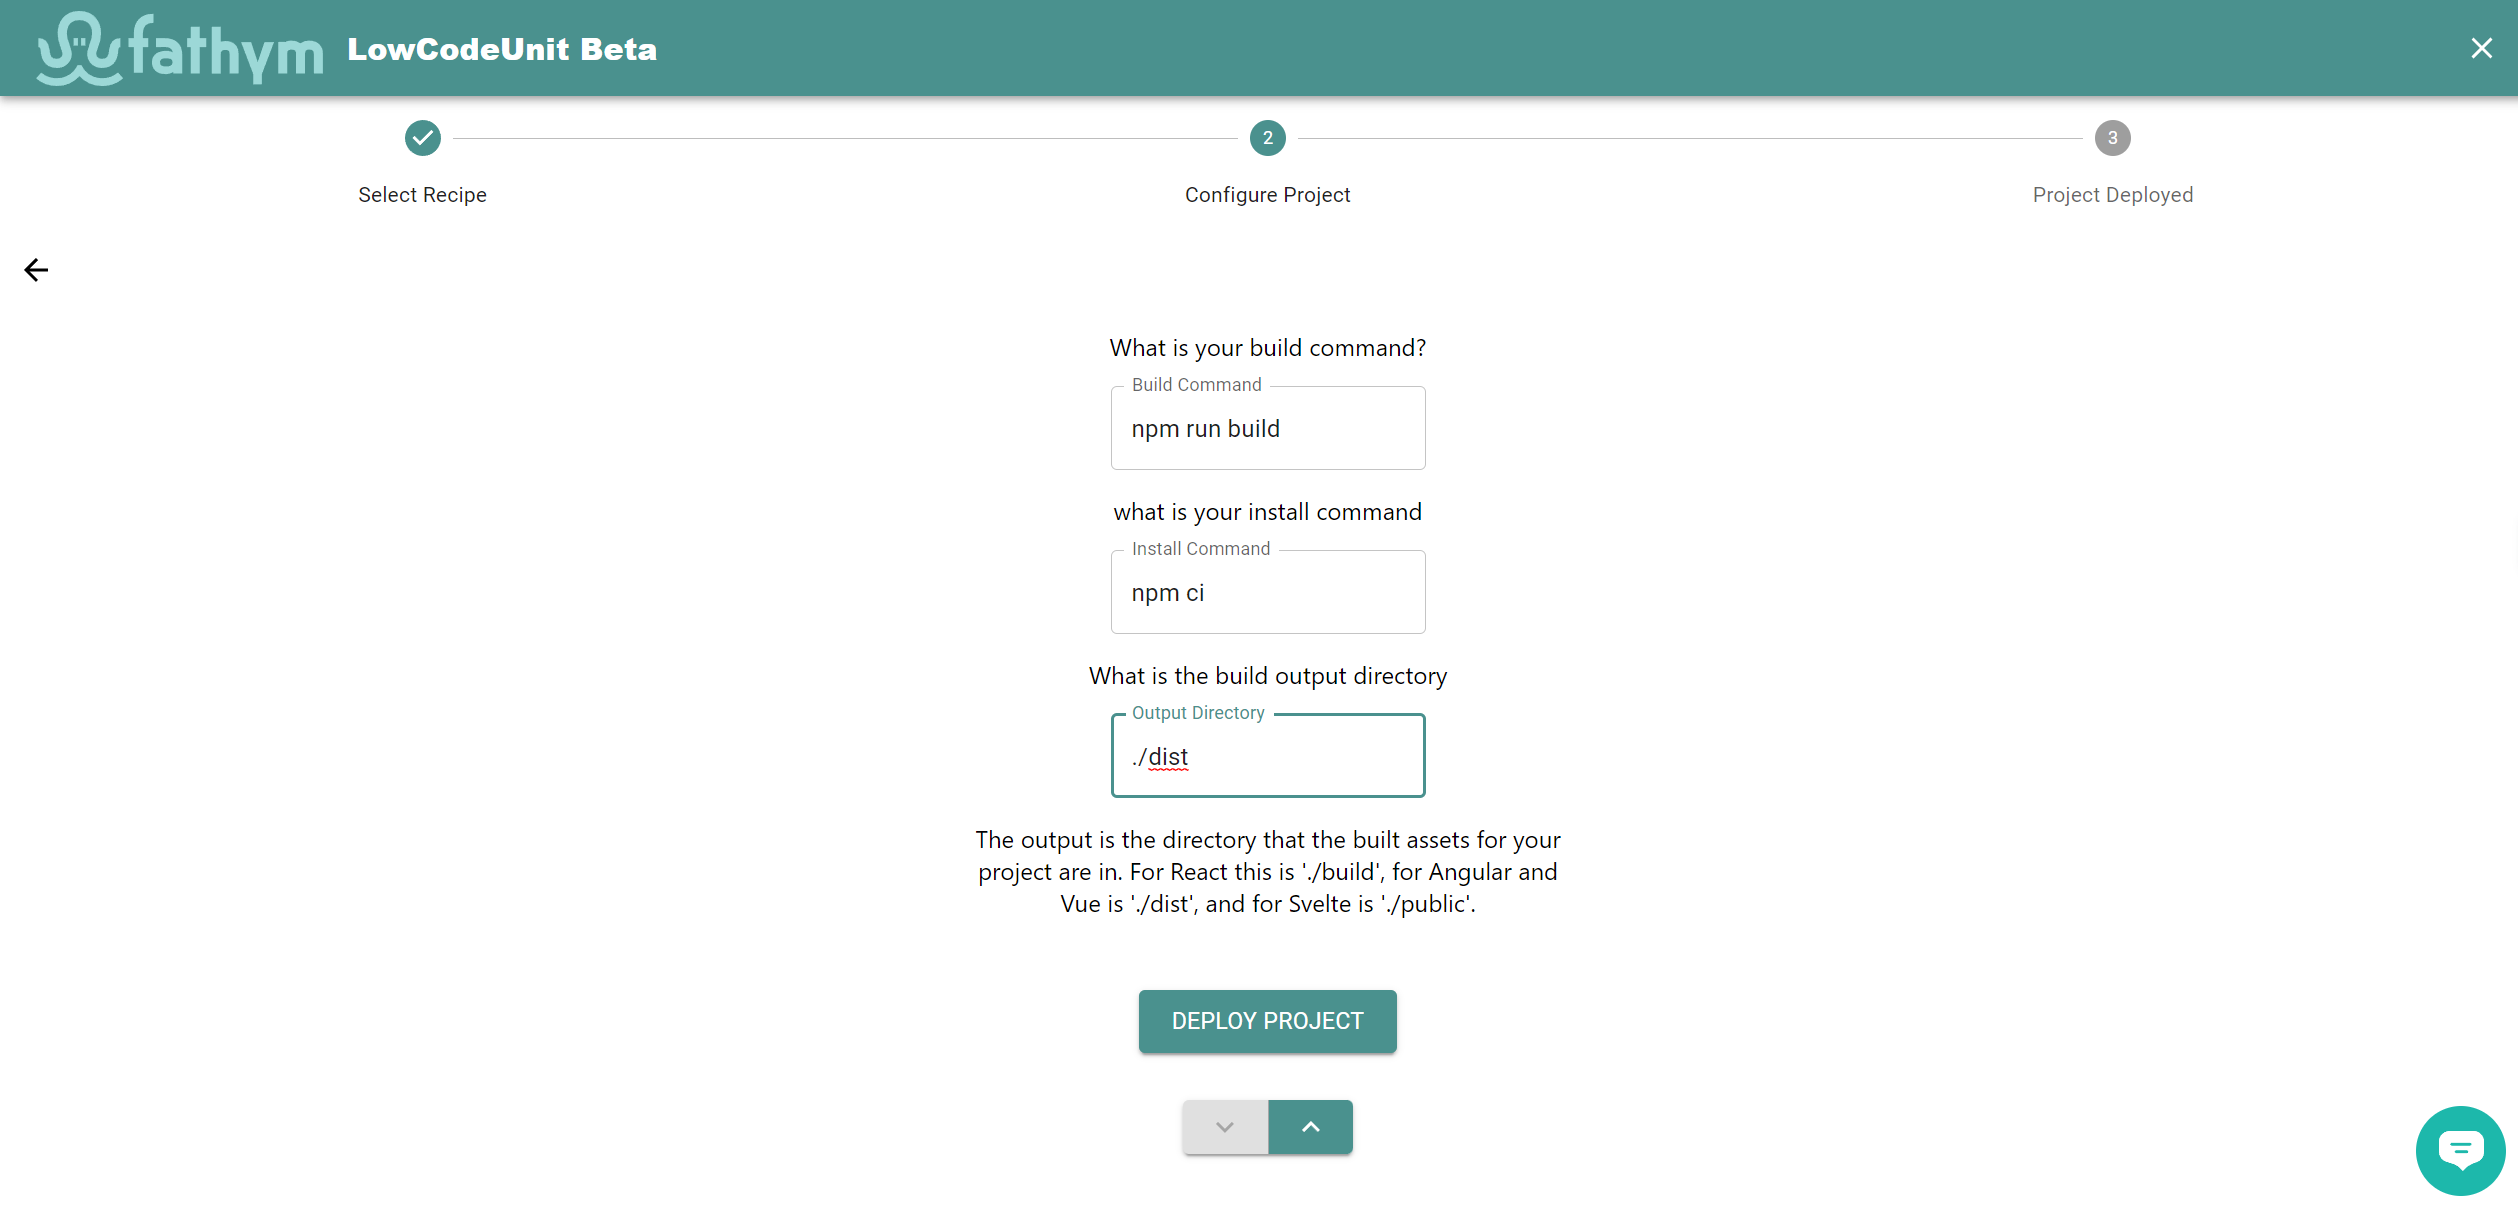
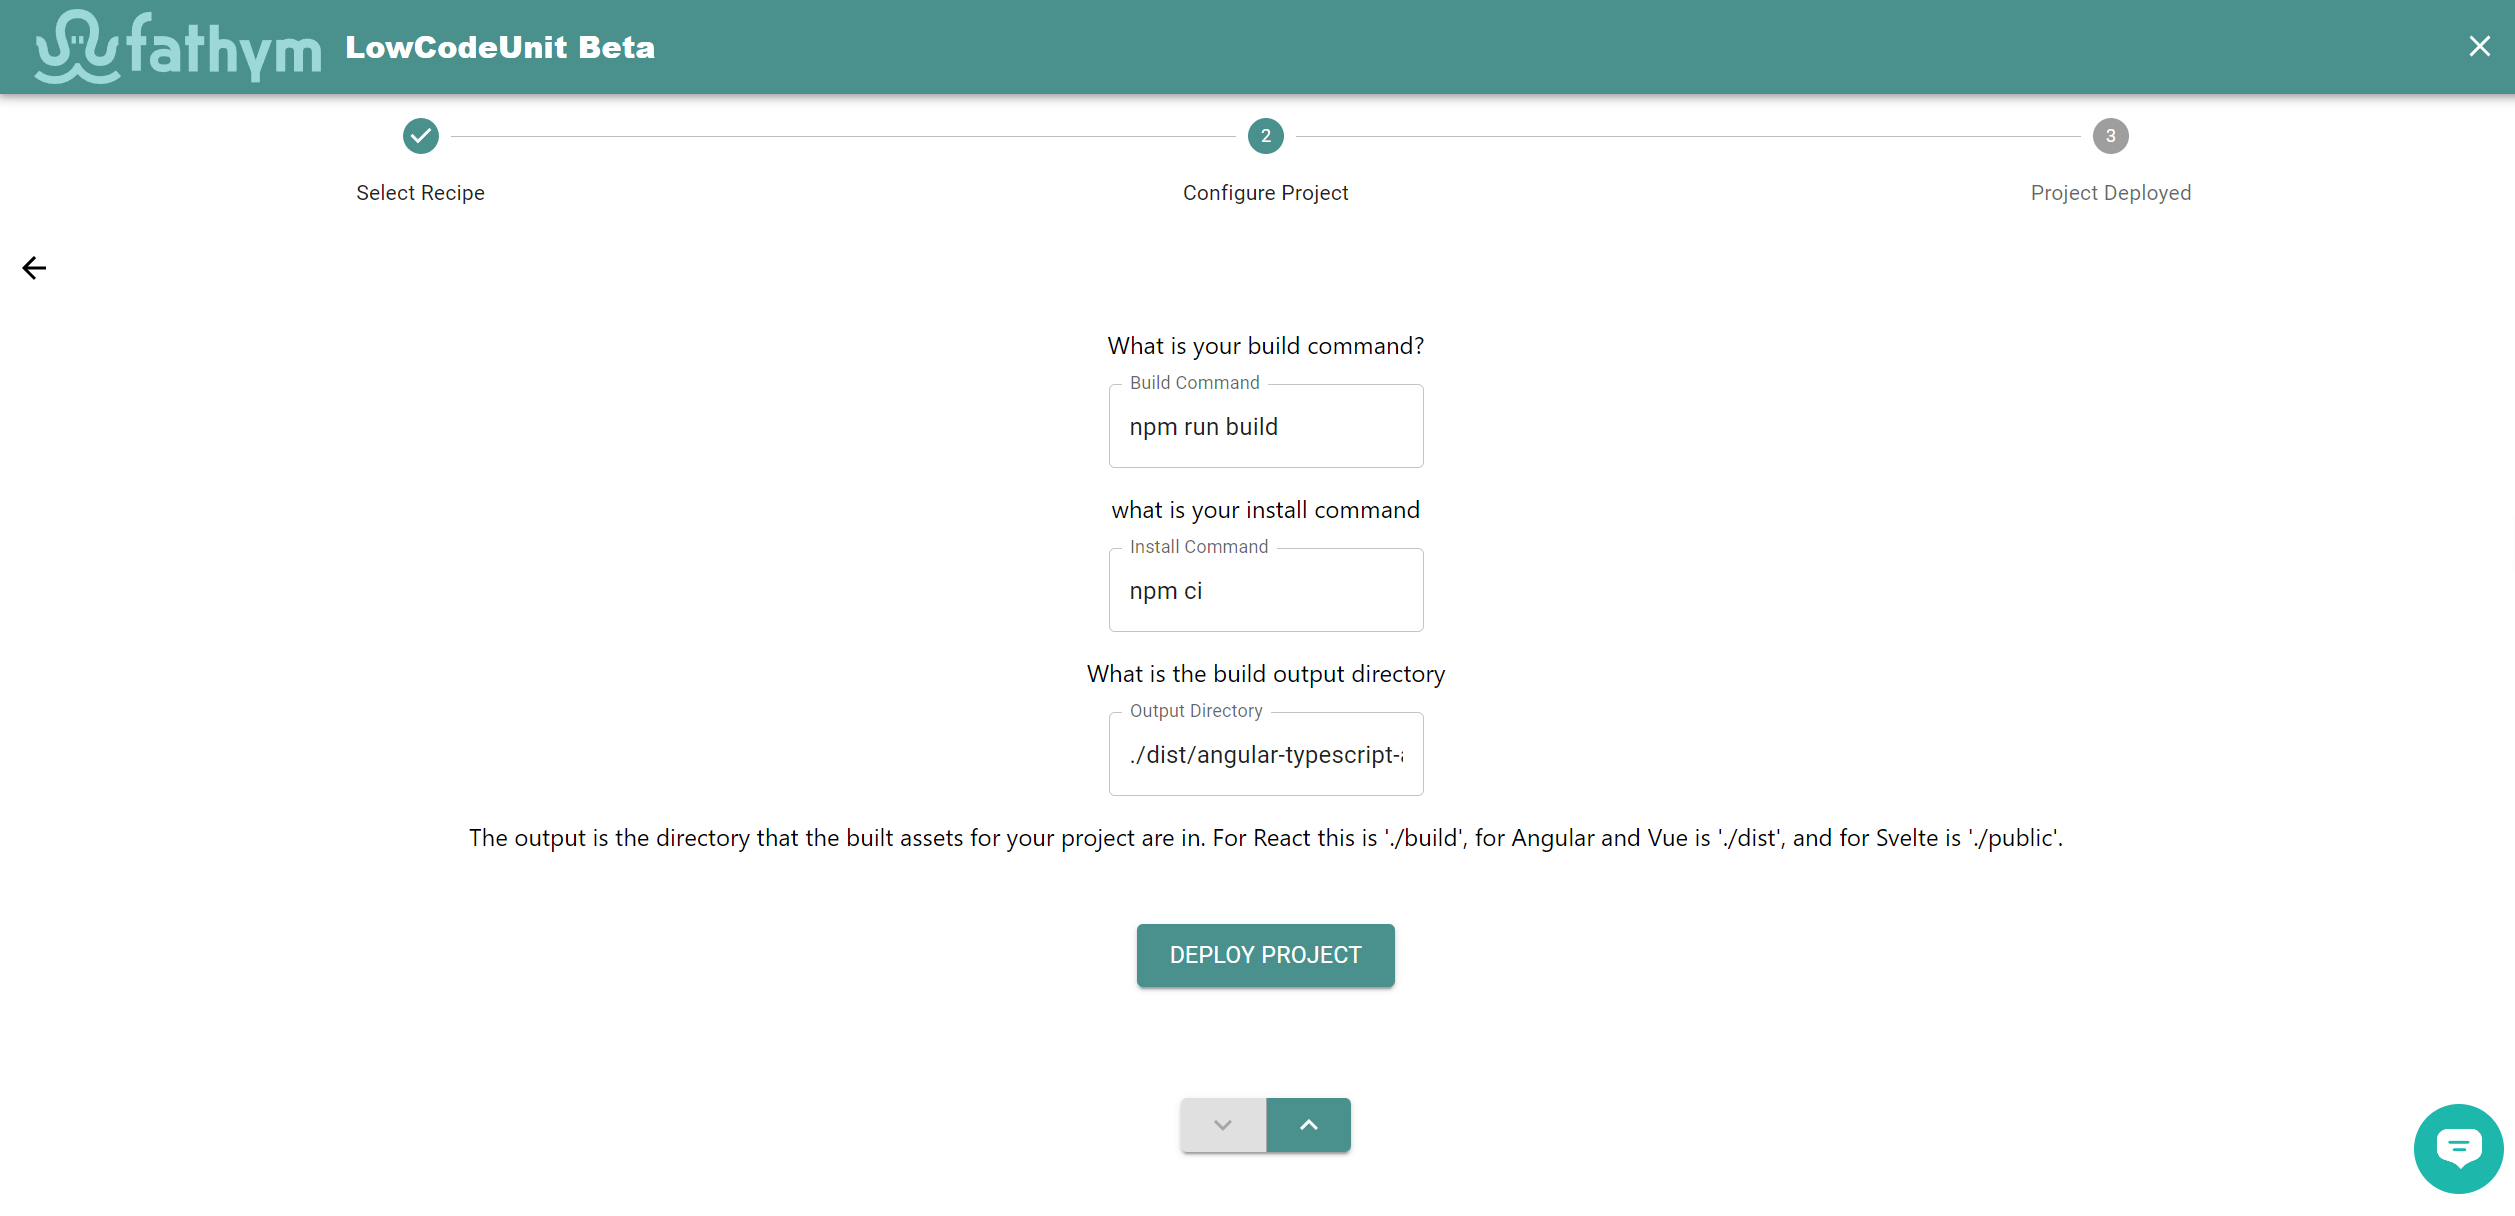
updated angular and react tutorials

diff --git a/docs/guides/deploying/frameworks/angular.md b/docs/guides/deploying/frameworks/angular.md
@@ -75,7 +75,7 @@ For an in-depth look at the setup and configuration, check out the [getting star
 
 ### Project Setup
 
-Within the custom project flow of the wizard, you can start by connecting to GitHub, if you haven't already, and then input a project name and click next. Now it's time to setup the source control by selecing the organization, repository, and branch setup previously with your Angular example code. Click next, and you'll be on the final build screen. You can leave the build and install commands at their defaults (`npm run build` and `npm ci` respectively). Make sure that the output directory is set to `./dist` (this is where the contents of the compiled app, and index.html or other default file lives).
+Within the custom project flow of the wizard, you can start by connecting to GitHub, if you haven't already, and then input a project name and click next. Now it's time to setup the source control by selecing the organization, repository, and branch setup previously with your Angular example code. Click next, and you'll be on the final build screen. You can leave the build and install commands at their defaults (`npm run build` and `npm ci` respectively). Make sure that the output directory is set to `./dist/angular-typescript-app` (make sure to change angular-typescript-app to your app name).
 
 ![Create Project Wizard Custom Project Build Pipeline Angular](/img/screenshots/create-project-wizard-custom-project-build-pipeline-angular.png)
 
